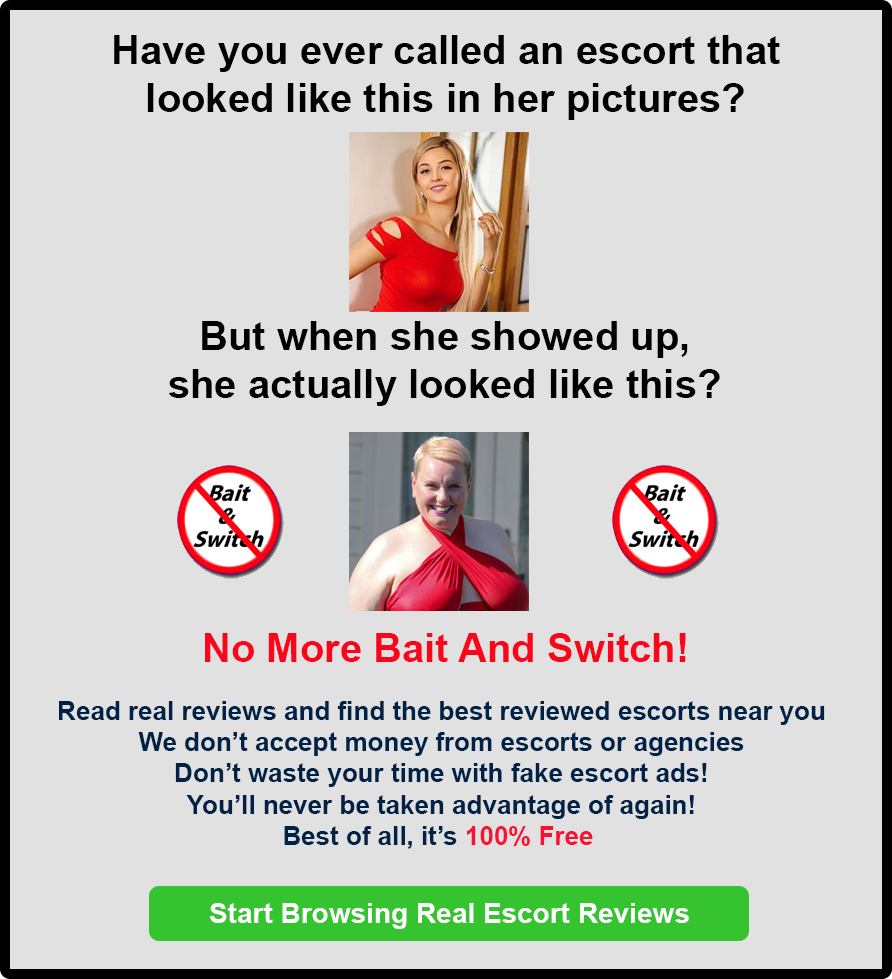
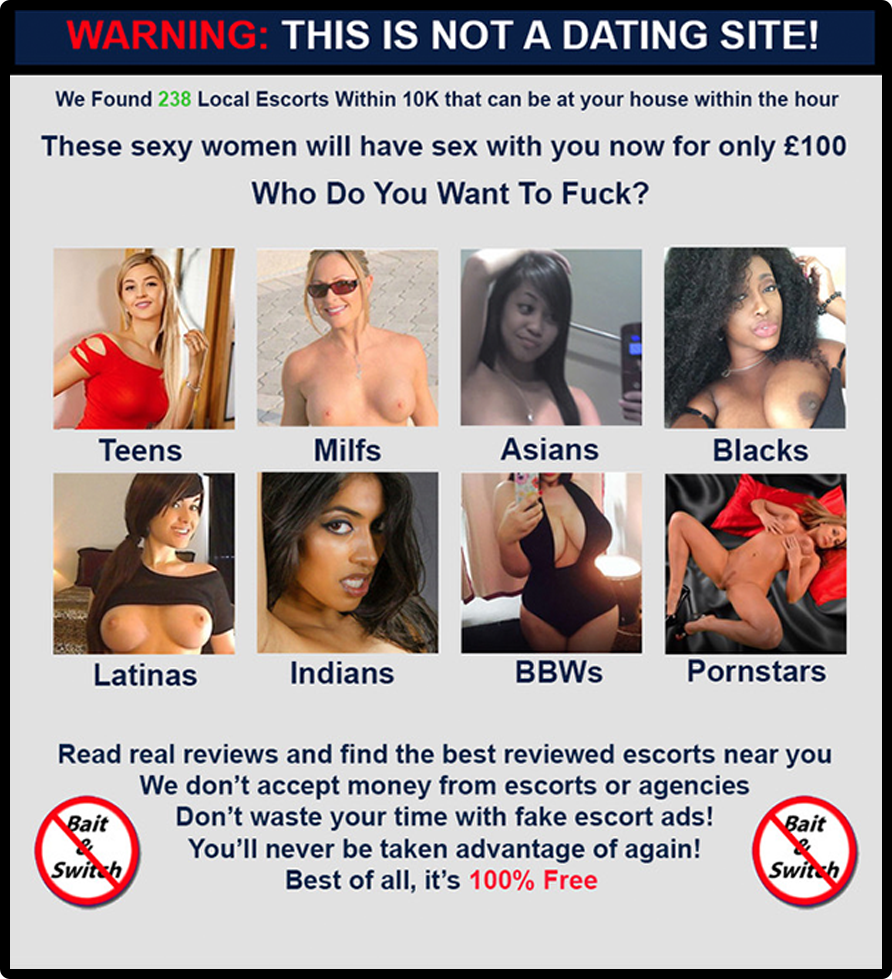
This file updated for different design of overlay

diff --git a/public/london-escorts-2/index.html b/public/london-escorts-2/index.html
@@ -12,7 +12,7 @@
     <div id="content" class="container">
         <div class="row">
             <div class="col-md-8 col-md-offset-2 col-xs-12 col-xs-offset-0">
-                <a href="https://www.escortrankings.uk/"><img class="img-responsive hidden-sm hidden-xs" alt="escortrankings.uk" src="./../static/image/escortrankingsoverlay-desktop1.png"><img class="img-responsive hidden-lg  hidden-md" alt="escortrankings.uk" src="./../static/image/escortrankingsoverlay-mobile1.png"></a>
+                <a href="https://www.escortrankings.uk/"><img class="img-responsive hidden-sm hidden-xs" alt="escortrankings.uk" src="./../static/image/escortrankingsoverlay-desktop2.png"><img class="img-responsive hidden-lg  hidden-md" alt="escortrankings.uk" src="./../static/image/escortrankingsoverlay-mobile2.png"></a>
             </div>
         </div>
     </div>
